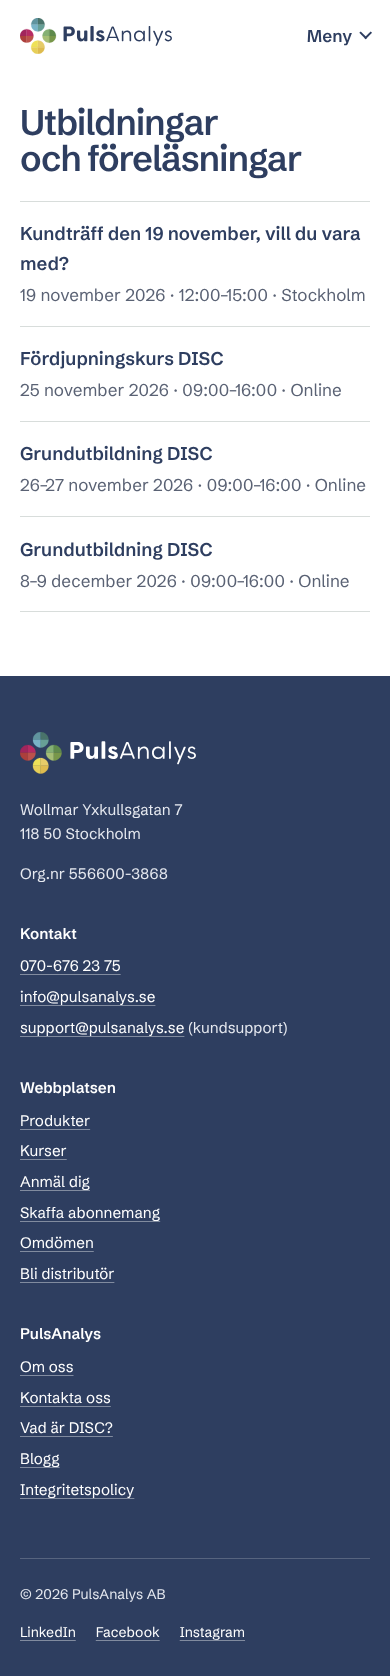
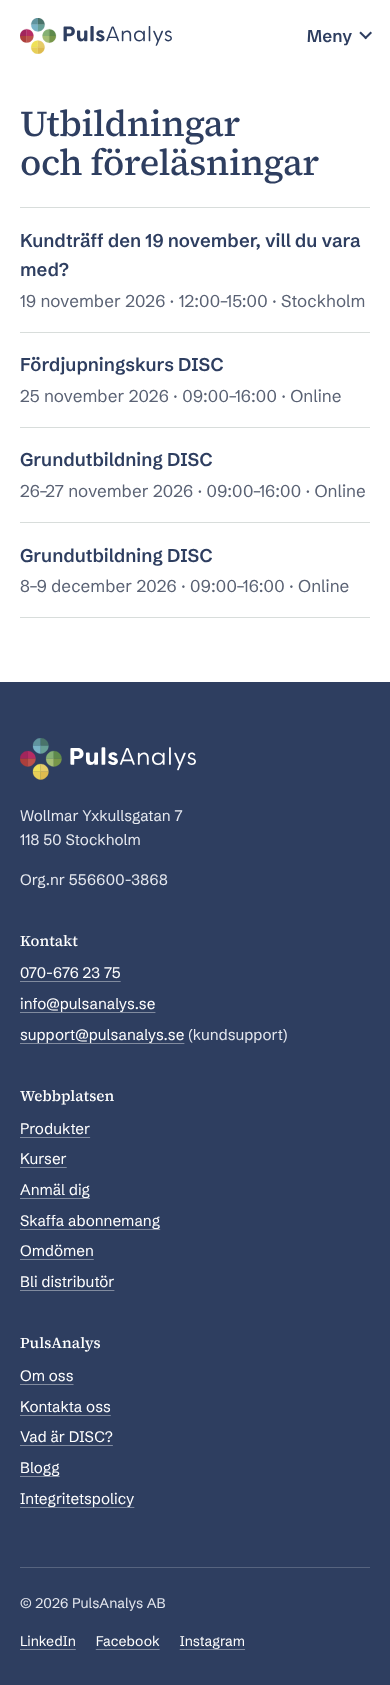
Give the homepage a corporate look: serif headings, one image format, calmer type scale
Claude-Session: https://claude.ai/code/session_01KC5tVbU2Bb4uqKuauz2v8F

diff --git a/src/styles/base.css b/src/styles/base.css
@@ -1,4 +1,5 @@
 @import "@fontsource-variable/schibsted-grotesk/wght.css";
+@import "@fontsource-variable/source-serif-4/wght.css";
 
 :root {
   --ink: #1f2a44;
@@ -17,18 +18,20 @@
   --c: #60949e;
 
   --font: "Schibsted Grotesk Variable", "Helvetica Neue", Arial, sans-serif;
-  --step-display: clamp(2.4rem, 1.5rem + 4vw, 4.75rem);
-  --step-h2: clamp(2rem, 1.5rem + 2.1vw, 3.25rem);
-  --step-h3: clamp(1.25rem, 1.15rem + 0.45vw, 1.5rem);
-  --step-lead: clamp(1.2rem, 1.1rem + 0.45vw, 1.45rem);
-  --step-body: clamp(1.0625rem, 1.04rem + 0.1vw, 1.125rem);
+  --font-serif: "Source Serif 4 Variable", Georgia, "Times New Roman", serif;
+  /* One modest scale. Nothing on the page is set larger than the H1. */
+  --step-display: clamp(2.25rem, 1.65rem + 2.6vw, 3.75rem);
+  --step-h2: clamp(1.75rem, 1.45rem + 1.3vw, 2.625rem);
+  --step-h3: clamp(1.125rem, 1.08rem + 0.2vw, 1.25rem);
+  --step-lead: clamp(1.125rem, 1.08rem + 0.25vw, 1.3125rem);
+  --step-body: 1.0625rem;
   --step-small: 0.875rem;
 
   --margin: clamp(1.25rem, 5vw, 4rem);
   --gutter: clamp(1rem, 2vw, 2rem);
   --max: 1320px;
   --section: clamp(4rem, 10vw, 9rem);
-  --radius-photo: 6px;
+  --radius-photo: 2px;
   --ease: cubic-bezier(0.2, 0.7, 0.2, 1);
 
   color-scheme: light;
@@ -63,9 +66,10 @@ h1, h2, h3 {
   hyphenate-limit-chars: 12 5 5;
   text-wrap: balance;
 }
-h1 { font-size: var(--step-display); line-height: 1.02; letter-spacing: -0.03em; }
-h2 { font-size: var(--step-h2); line-height: 1.08; letter-spacing: -0.02em; }
-h3 { font-size: var(--step-h3); line-height: 1.2; letter-spacing: -0.01em; }
+h1, h2 { font-family: var(--font-serif); font-weight: 500; }
+h1 { font-size: var(--step-display); line-height: 1.08; letter-spacing: -0.015em; }
+h2 { font-size: var(--step-h2); line-height: 1.15; letter-spacing: -0.01em; }
+h3 { font-size: var(--step-h3); line-height: 1.3; letter-spacing: 0; }
 p { margin: 0; text-wrap: pretty; }
 p + p { margin-top: 1em; }
 
@@ -81,7 +85,7 @@ a:hover, a:active { text-decoration-thickness: 2px; }
 
 .wrap { width: min(100% - 2 * var(--margin), var(--max)); margin-inline: auto; }
 .measure { max-width: 68ch; }
-.lead { font-size: var(--step-lead); line-height: 1.45; max-width: 52ch; color: var(--ink); }
+.lead { font-size: var(--step-lead); line-height: 1.55; max-width: 56ch; color: var(--ink); }
 .muted { color: var(--muted); }
 
 .button {
@@ -91,11 +95,13 @@ a:hover, a:active { text-decoration-thickness: 2px; }
   min-height: 2.75rem;
   padding: 0.75rem 1.4rem;
   border: 0;
-  border-radius: 999px;
+  border-radius: 2px;
   background: var(--navy);
   color: #fff;
   font: inherit;
+  font-size: 0.95rem;
   font-weight: 600;
+  letter-spacing: 0.01em;
   text-decoration: none;
   cursor: pointer;
   transition: background-color 160ms var(--ease), transform 160ms var(--ease);
@@ -131,7 +137,7 @@ main:focus { outline: none; }
 /* Pages that are still on the interim single-column layout (calendar, booking). */
 .page { padding-block: clamp(2rem, 5vw, 4rem) var(--section); }
 .page > * { max-width: 46rem; }
-.page h1 { font-size: clamp(2.2rem, 1.6rem + 2.6vw, 3.5rem); margin-bottom: 1.5rem; }
+.page h1 { margin-bottom: 1.5rem; }
 .page h2 { font-size: 1.6rem; margin-top: 2.5rem; margin-bottom: 0.75rem; }
 .prose ul { padding-left: 1.2em; }
 .prose h2 + p, .prose h3 + p { margin-top: 0.5rem; }

diff --git a/src/styles/booking.css b/src/styles/booking.css
@@ -28,7 +28,7 @@
 .cf-turnstile { margin: 1.75rem 0 0.75rem; }
 .booking form button[type="submit"] {
   font: inherit; font-weight: 600; padding: 0.8rem 1.6rem; min-height: 2.75rem; margin-top: 0.5rem;
-  border: 0; border-radius: 999px; background: var(--navy); color: #fff; cursor: pointer;
+  border: 0; border-radius: 2px; background: var(--navy); color: #fff; cursor: pointer;
   transition: background-color 160ms var(--ease);
 }
 .booking form button[type="submit"]:hover { background: var(--navy-deep); }

diff --git a/docs/DESIGN.md b/docs/DESIGN.md
@@ -2,6 +2,18 @@
 
 Status: proposal for Hussein's approval with the homepage prototype (stage 2 gate).
 
+## 0. Positioning (Hussein, 17 November 2026)
+
+The site must read as a **serious, high-end consulting firm** selling B2B services to
+mature, senior buyers – C-level executives, HR directors, management teams – while
+being visibly modern in its build and behaviour. In practice:
+
+- **Restraint over expression.** One typographic scale, one image system, one grid. Nothing is larger than the H1; contact details are body text, not display type.
+- **Editorial serif for headings** (Source Serif 4) over a quiet grotesk for text (Schibsted Grotesk). Classic advisory tone, current typefaces.
+- **Square corners** (2 px) on buttons and photos; navy rules mark the start of each section.
+- **Every photo is 3:2** (the hero is 2:1 on screens from 768 px). In split sections the photo spans 5 of 12 columns and the text starts at column 7; products sit in an even 2 × 2 grid.
+- **Modern underneath:** scroll-driven CSS animation, AVIF/WebP, zero JavaScript on content pages, Lighthouse 100, WCAG 2.2 AA.
+
 ## 1. The idea
 
 PulsAnalys sells understanding between people, and its product is a graph: four factor
@@ -50,21 +62,21 @@ meaning alone – every bar has a text label.
 
 ## 4. Typography
 
-**Schibsted Grotesk** (variable 400–900, SIL Open Font License, self-hosted woff2, Latin and
-Latin Extended subsets – å, ä, ö included). A Scandinavian newspaper grotesk: sober and
-legible, with enough character in the headline weights to carry the page. One family
-only.
+**Source Serif 4** (variable weight, SIL Open Font License) for H1 and H2, weight 500.
+**Schibsted Grotesk** (variable, SIL Open Font License) for everything else – a sober
+Scandinavian newspaper grotesk. Both self-hosted as woff2 with Latin and Latin Extended
+subsets (å, ä, ö included).
 
 Avenir, used on today's site, is a commercial font; its web licence is unknown (see
 ASSET-GAPS.md), so it is not used.
 
 | Role | Size (mobile → desktop) | Line height | Weight | Tracking |
 |---|---|---|---|---|
-| Display (H1) | 2.6 → 5.25 rem | 1.02 | 600 | −0.03 em |
-| H2 | 2 → 3.25 rem | 1.08 | 600 | −0.02 em |
-| H3 | 1.25 → 1.5 rem | 1.2 | 600 | −0.01 em |
-| Lead | 1.2 → 1.45 rem | 1.45 | 400 | 0 |
-| Body | 1.0625 → 1.125 rem | 1.6 | 400 | 0 |
+| Display (H1, serif) | 2.25 → 3.75 rem | 1.08 | 500 | −0.015 em |
+| H2 (serif) | 1.75 → 2.625 rem | 1.15 | 500 | −0.01 em |
+| H3 (sans) | 1.125 → 1.25 rem | 1.3 | 600 | 0 |
+| Lead | 1.125 → 1.3125 rem | 1.55 | 400 | 0 |
+| Body | 1.0625 rem | 1.6 | 400 | 0 |
 | Small | 0.875 rem | 1.5 | 500 | 0 |
 
 Sentence case everywhere. No all-caps labels. Measure: body text at most 68 characters,
@@ -81,7 +93,8 @@ leads at most 52. Long Swedish compounds wrap with `hyphens: auto` and
 
 - Only the company's own photos (the 2020 session). No stock, no AI images.
 - Images are shown large or not at all. One photo per section at most.
-- Small radius (6 px) on photos only; everything else is square.
+- One format: 3:2 everywhere (hero 2:1 from 768 px). No portrait crops, no mixed sizes in a row.
+- 2 px radius on photos and buttons.
 - Delivered as AVIF/WebP with responsive sizes, width and height set, lazy-loaded below the fold.
 - Alt text describes what is in the picture, in both languages.
 
@@ -109,14 +122,14 @@ Rules (from the brief, all met in the prototype):
 | Component | Notes |
 |---|---|
 | Site header | Logo (horizontal, inline SVG), main navigation, "Logga in" to clientarea, language link. Mobile menu is a `<details>` disclosure – works without JavaScript |
-| Button | Navy fill, white text, 2.75 rem minimum height; secondary as text link with underline |
+| Button | Navy fill, white text, square corners (2 px), 2.75 rem minimum height; secondary as text link with underline |
 | Profile graph | Four labelled bars on a 0–100 baseline; static and pinned variants |
 | Steps | Numbered list – used only for real sequences (training → certification → subscription) |
-| Product rows | Photo + heading + text + link, alternating sides on desktop |
+| Product grid | 2 × 2 grid: 3:2 photo, heading, text, link – all four items the same size |
 | Date list | Course dates from the content collection, each row a link to its booking page |
 | Logo row | Client logos in greyscale at equal visual weight |
-| Quote rail | Testimonials in a horizontal scroll-snap row; keyboard-focusable; native touch scrolling |
-| Contact band | Closing section with phone, e-mail and link to the contact page |
+| Quote rail | Testimonials on white panels in a horizontal scroll-snap row, quotes in the serif; keyboard-focusable; native touch scrolling |
+| Contact band | Closing section: heading left, phone and e-mail as a small definition list right, at body size |
 | Booking form | Built in stage 1 work; takes the tokens above |
 
 Still to design in the build stage: 404 page, form error states in context, empty states for date lists, favicon set (SVG done).
